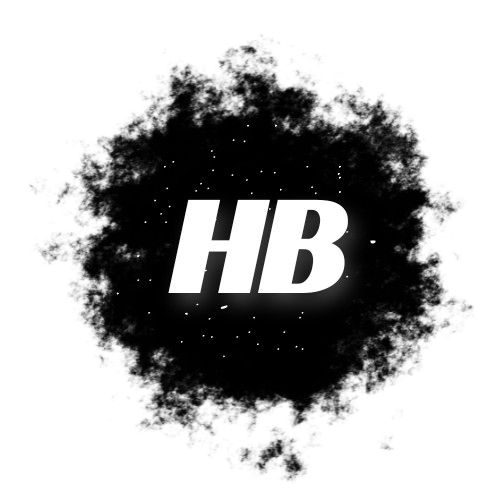
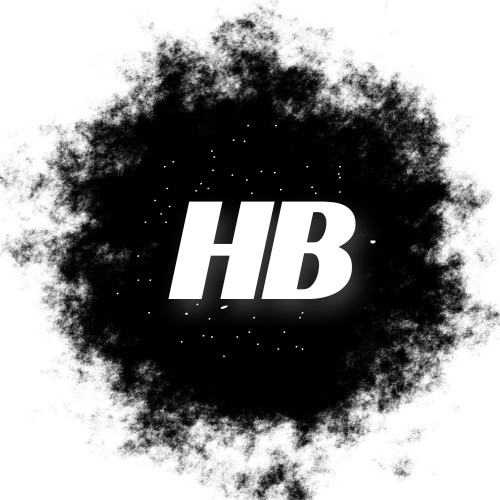
UNDER CONSTRUCTION

diff --git a/style.css b/style.css
@@ -22,7 +22,7 @@ nav {
 }
 
 nav>img:first-child {
-    width: 250px;
+    width: 260px;
     height: 100px;
     object-fit: cover;
     cursor: pointer;
@@ -43,14 +43,14 @@ nav>img:first-child:hover {
     cursor: pointer;
     text-transform: capitalize;
     transition: all 0.2s linear;
-}
-
-.nav-item:active {
-    color: #ff0000;
+    font-weight: 600;
+    opacity: 0.8;
 }
 
 .nav-item:hover {
     transform: translateY(-5px);
+    color: #ff0000;
+    opacity: 1;
 }
 
 .first-section {
@@ -58,11 +58,11 @@ nav>img:first-child:hover {
     justify-content: center;
     text-align: justify;
     padding: 60px 0px;
-    gap: 50px;
+    gap: 100px;
 }
 
 .about-me {
-    width: 40%;
+    width: 45%;
 }
 
 .about-me>h1 {
@@ -72,7 +72,9 @@ nav>img:first-child:hover {
 }
 
 .about-me>h1>span {
-    color: #ff0606;
+    background: linear-gradient(to top left, rgb(32, 32, 32), rgb(243, 9, 9), red);
+    -webkit-background-clip: text;
+  -webkit-text-fill-color: transparent;
 }
 
 .about-me>p{
@@ -80,9 +82,17 @@ nav>img:first-child:hover {
     font-size: 1rem;
 }
 
+.coding-img{
+    overflow: hidden;
+    width: 28%;
+}
 
 .coding-img>img {
-    width: 80%;
-    border-radius: 10px;
-    margin-right: -200px;
+    width: 100%;
+    transition: all 0.3s linear;
+    cursor: pointer;
+}
+
+.coding-img>img:hover{
+    transform: scale(1.1);
 }

diff --git a/index.html b/index.html
@@ -13,7 +13,7 @@
     <!-- navbar -->
     <header>
         <nav>
-            <img id="logo" src="./images/hb.png" alt="">
+            <img id="logo" src="./images/hb_logo-removebg-preview.png" alt="">
             <ul class="nav-content">
                 <li class="nav-item">home</li>
                 <li class="nav-item">about</li>
